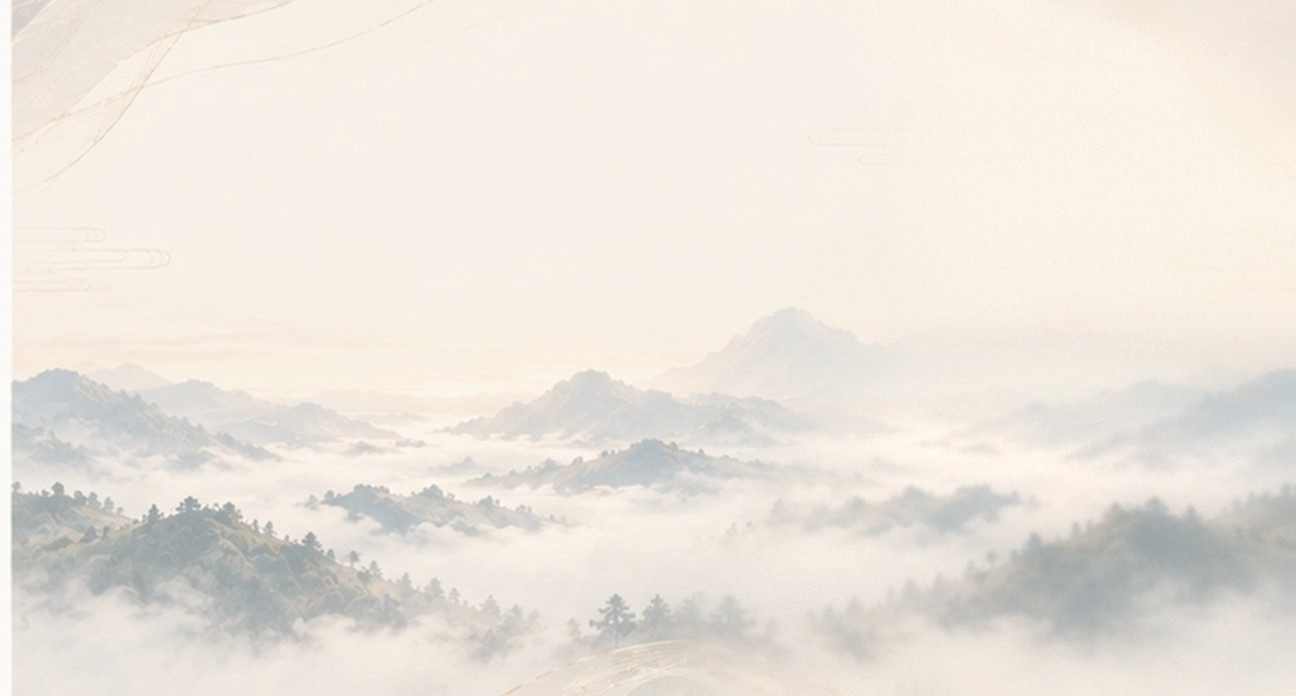
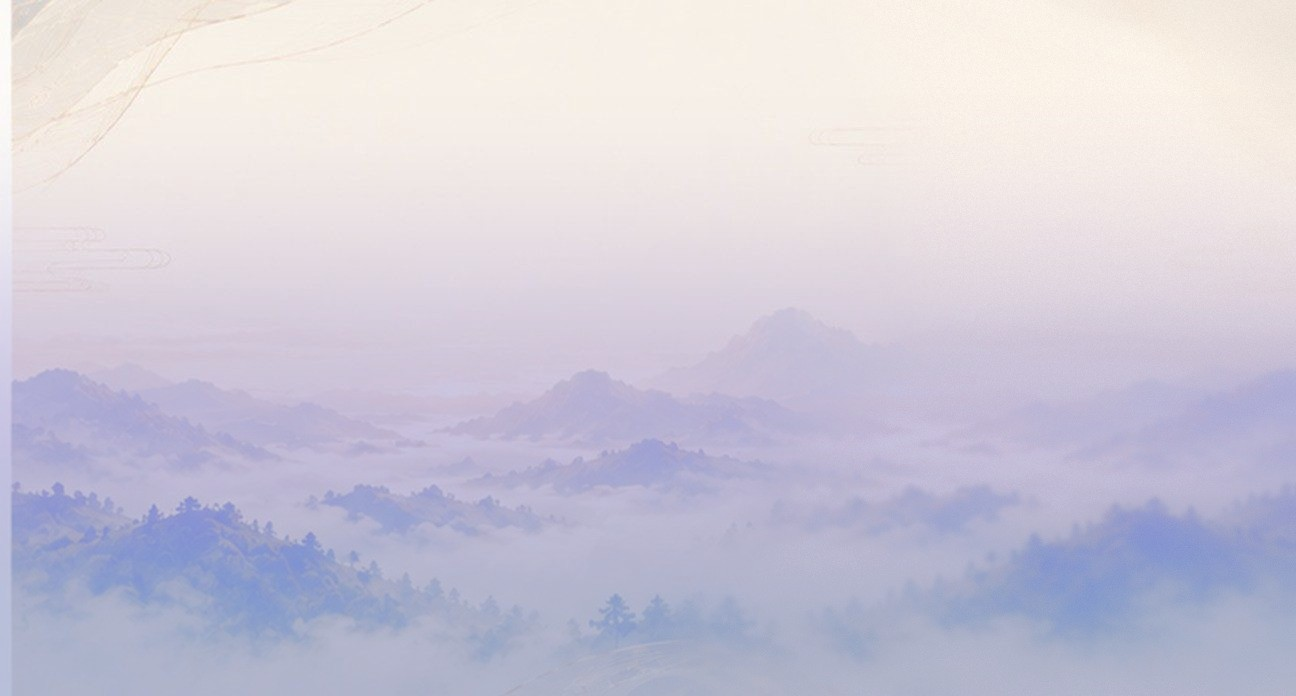
feat(home): 首屏补门店地址、英文标题加句点，About 首屏改为蓝紫黄昏调
- Hero 新增 649 Main St, Waltham, MA 02451（各语言共用，不翻译）
- 英文标题改为 Relax. Refresh. Renew.，其它语言不加句点
- About 首屏山景图冷调重制，并叠加黄昏色层，山体呈现蓝紫层次

diff --git a/src/content.ts b/src/content.ts
@@ -5,6 +5,9 @@ export const images = {
   interiorLounge: '/images/interior-02.jpg',
 }
 
+/** 门店地址：美国地址格式各语言通用，不做翻译 */
+export const storeAddress = '649 Main St, Waltham, MA 02451'
+
 export type ServiceItem = {
   number: string
   title: string
@@ -221,7 +224,7 @@ export const baseCopy: Record<'zh' | 'en', Copy> = {
     book: 'Book a Ritual',
     hero: {
       eyebrow: 'HERBAL SCALP & SKIN WELLNESS',
-      title: 'Relax Refresh Renew',
+      title: 'Relax. Refresh. Renew.',
       italic: 'Breathe at the roots\nand find yourself again',
       description:
         'A quiet pause in a busy day. At ORA Toucheer Head Spa, take a moment to close your eyes, let your shoulders drop, and leave the rush of the day at the door. With gentle botanical scalp care, and a quiet space to rest, you can take a breath and let the tension of the day ease.',

diff --git a/src/index.css b/src/index.css
@@ -1037,6 +1037,18 @@ h2 {
   line-height: 1.1;
 }
 
+.hero__address {
+  display: inline-flex;
+  align-items: center;
+  gap: 9px;
+  margin-top: 44px;
+  color: rgba(255, 255, 255, 0.62);
+  font-size: 11px;
+  letter-spacing: 0.12em;
+  line-height: 1.6;
+  text-transform: uppercase;
+}
+
 .text-link {
   display: inline-flex;
   align-items: center;
@@ -8410,6 +8422,13 @@ html[data-coming-soon='true'] .hero {
 .about-page__hero::after {
   position: absolute;
   background:
+    /* 黄昏色层：天空偏紫、山谷偏蓝，配合山景图的冷调 */
+    linear-gradient(
+      180deg,
+      rgba(96, 82, 138, 0.30) 0%,
+      rgba(70, 70, 132, 0.22) 46%,
+      rgba(34, 44, 86, 0.34) 100%
+    ),
     linear-gradient(
       90deg,
       rgba(22, 18, 13, 0.74) 0%,

diff --git a/src/components/HeroPhilosophy.tsx b/src/components/HeroPhilosophy.tsx
@@ -1,5 +1,5 @@
-import { ArrowDown, Asterisk, Droplets, Flower2, ScanFace, Wind } from 'lucide-react'
-import { images } from '../content'
+import { ArrowDown, Asterisk, Droplets, Flower2, MapPin, ScanFace, Wind } from 'lucide-react'
+import { images, storeAddress } from '../content'
 import { isComingSoon } from '../lib/comingSoon'
 import { copy } from '../localizedContent'
 import { useSiteStore } from '../store/useSiteStore'
@@ -44,6 +44,10 @@ export function Hero() {
             </a>
           </div>
         )}
+        <p className="hero__address reveal-up delay-3">
+          <MapPin size={13} aria-hidden="true" />
+          {storeAddress}
+        </p>
       </div>
       <div className="hero__side-note">{t.note}</div>
     </section>
